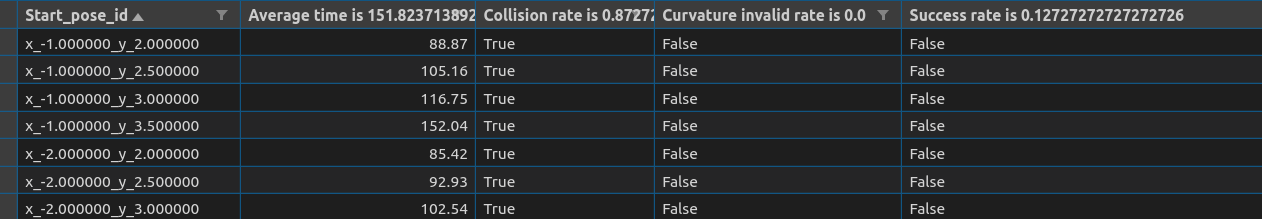
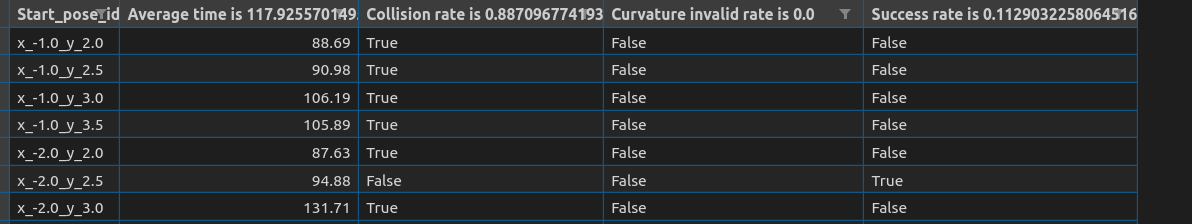
Planning: fix msg dropped bug

Changed region(s): [[0.0, 0.0, 1.0, 1.0]]

diff --git a/src/teb_local_planner/scripts/publish_global_plan.py b/src/teb_local_planner/scripts/publish_global_plan.py
@@ -10,6 +10,7 @@ from geometry_msgs.msg import Pose
 
 DATA_PATH = '/home/jinyun/dev/teb_melodic_workspace/src/global_planner/data/hybrid_star_results/'
 
+
 def list_files_with_suffix(dir_path, suffix):
     """List all sub-files with suffix in given dir_path."""
     return [os.path.join(root, f) for root, _, files
@@ -18,7 +19,6 @@ def list_files_with_suffix(dir_path, suffix):
 
 def read_global_plan_from_files(folder):
     files = list_files_with_suffix(folder, '.txt')
-    print("There are {} global plans to be tested".format(int(len(files)/6)))
     x_files = list(filter(lambda path: 'x.txt' in path, files))
     y_files = list(filter(lambda path: 'y.txt' in path, files))
     heading_files = list(filter(lambda path: 'phi.txt' in path, files))
@@ -27,29 +27,33 @@ def read_global_plan_from_files(folder):
     for x in range(-8, 8):
         for y in [2, 2.5, 3, 3.5]:
             x_file = list(filter(lambda path: "start_x_{:.1f}".format(
-                x) in path and "start_y_{:1f}".format(y), x_files))[0]
+                x) in path and "start_y_{:.1f}".format(y) in path, x_files))[0]
             y_file = list(filter(lambda path: "start_x_{:.1f}".format(
-                x) in path and "start_y_{:1f}".format(y), y_files))[0]
+                x) in path and "start_y_{:.1f}".format(y) in path, y_files))[0]
             heading_file = list(filter(lambda path: "start_x_{:.1f}".format(
-                x) in path and "start_y_{:1f}".format(y), heading_files))[0]
-            
-            global_plan["x_{:1f}_y_{:1f}".format(x, y)] = {'x': [], 'y': [], 'heading':[]}
+                x) in path and "start_y_{:.1f}".format(y) in path, heading_files))[0]
+
+            global_plan["x_{:.1f}_y_{:.1f}".format(x, y)] = {
+                'x': [], 'y': [], 'heading': []}
 
             with open(x_file, 'r') as read_file:
                 lines = list(csv.reader(read_file))
                 for row in lines:
-                    global_plan["x_{:1f}_y_{:1f}".format(x, y)]['x'].append(float(row[0]))
+                    global_plan["x_{:.1f}_y_{:.1f}".format(
+                        x, y)]['x'].append(float(row[0]))
 
             with open(y_file, 'r') as read_file:
                 lines = list(csv.reader(read_file))
                 for row in lines:
-                    global_plan["x_{:1f}_y_{:1f}".format(x, y)]['y'].append(float(row[0]))
+                    global_plan["x_{:.1f}_y_{:.1f}".format(
+                        x, y)]['y'].append(float(row[0]))
 
             with open(heading_file, 'r') as read_file:
                 lines = list(csv.reader(read_file))
                 for row in lines:
-                    global_plan["x_{:1f}_y_{:1f}".format(x, y)]['heading'].append(float(row[0]))
-    print(len(global_plan))
+                    global_plan["x_{:.1f}_y_{:.1f}".format(
+                        x, y)]['heading'].append(float(row[0]))
+    print("There are {} global plans to be tested".format(len(global_plan)))
     return global_plan
 
 
@@ -60,25 +64,28 @@ def publish_global_plan_msg(global_plan):
 
     global_plan_idx = 0
 
-    r = rospy.Rate(0.2)  # 10hz
+    r = rospy.Rate(0.5)  # 0.2hz
 
-    time.sleep(1)
+    while pub.get_num_connections() == 0:
+        print('waiting for subscriber')
+        time.sleep(1)
+
+    print("{} subscriber is ready".format(pub.get_num_connections()))
 
     while not rospy.is_shutdown():
-        if pub.get_num_connections() == 0:
-            continue
-
-        if global_plan_idx == len(global_plan):
+        if global_plan_idx >= len(global_plan):
             print('all global plan published')
-            break
+            # It's a hack here to republish the last global plan msg, as sometimes, the last plan feedback is 
+            # somehow dropped
+            global_plan_idx = len(global_plan) - 1
 
         test_global_plan = PoseSeqMsg()
         test_global_plan.header.stamp = rospy.Time.now()
         test_global_plan.header.frame_id = "odom/map"  # CHANGE HERE: odom/map
-        
+
         key_to_publish = list(global_plan.keys())[global_plan_idx]
         plan = global_plan[key_to_publish]
-        
+
         for i in range(len(plan['x'])):
             test_global_plan.pose_seq.append(Pose())
             test_global_plan.pose_seq[-1].position.x = plan['x'][i]
@@ -90,14 +97,14 @@ def publish_global_plan_msg(global_plan):
 
         pub.publish(test_global_plan)
 
-        global_plan_idx +=1
+        global_plan_idx += 1
 
         print(key_to_publish + " is published")
 
         r.sleep()
 
 
-if __name__ == '__main__':    
+if __name__ == '__main__':
     global_plan = read_global_plan_from_files(DATA_PATH)
 
     try:

diff --git a/src/teb_local_planner/src/test_optim_node.cpp b/src/teb_local_planner/src/test_optim_node.cpp
@@ -100,7 +100,7 @@ int main(int argc, char **argv)
   custom_obst_sub = n.subscribe("obstacles", 1, CB_customObstacle);
 
   // setup callback for global plan
-  global_plan_sub = n.subscribe("test_global_plan", 0, CB_global_plan, ros::TransportHints().tcpNoDelay(true));
+  global_plan_sub = n.subscribe("test_global_plan", 1, CB_global_plan, ros::TransportHints().reliable ().tcpNoDelay(true));
 
   // Setup visualization
   visual = TebVisualizationPtr(new TebVisualization(n, config));
@@ -196,7 +196,9 @@ Point2dContainer build_robot_model()
 void CB_global_plan(const PoseSeqMsg::ConstPtr &global_plan_msg)
 {
   int size = global_plan_msg->pose_seq.size();
+  ROS_INFO(("Received start_pose_id_: " + global_plan_msg->start_pose).c_str());
   if (size == 0) {
+    ROS_INFO(("Received start_pose_id_: " + global_plan_msg->start_pose + " has global plan empty").c_str());
     return;
   }
   start_x = global_plan_msg->pose_seq.at(0).position.x;
@@ -226,7 +228,7 @@ void CB_global_plan(const PoseSeqMsg::ConstPtr &global_plan_msg)
   visual->publishObstacles(obst_vector);
   visual->publishViaPoints(via_points);
 
-  ROS_INFO(("start_pose_id_: " + start_pose_id_).c_str());
+  ROS_INFO(("Finished plan at start_pose_id_: " + start_pose_id_).c_str());
   ROS_INFO(("TEB total used time: " + std::to_string(teb_total_time) + " ms.").c_str());
   ROS_INFO(("global_plan_count: " + std::to_string(global_plan_count_++)).c_str());
 }

diff --git a/src/teb_local_planner/scripts/subscribe_feedback.py b/src/teb_local_planner/scripts/subscribe_feedback.py
@@ -151,7 +151,7 @@ def feedback_subscriber():
 
     upper_boundaries, lower_boundaries = create_parking_boundaries()
 
-    r = rospy.Rate(2)  # define rate here
+    r = rospy.Rate(10)  # define rate here
     last_start_pose_id = None
     while not rospy.is_shutdown():
 
@@ -162,6 +162,8 @@ def feedback_subscriber():
             continue
         last_start_pose_id = cur_start_pose_id
 
+        print(cur_start_pose_id + " is received")
+        
         t = []
         v = []
         omega = []

diff --git a/README.md b/README.md
@@ -18,9 +18,6 @@
 6. when you see "all global plan published" shown in your terminal. Ctrl-C to stop the terminal. And statistics will be automaticaly dumped at RESULTS_TABLE_CSV. Read it in csv reader is recommended.
 7. If you want to change or update the data in DATA_PATH, please update line 27-28 in scripts/publish_global_plan.py accordingly
 
-**Note:**
-**Current issue is that the subcriber would accidently drop a few msgs, so only 55/64 testings are done. WILL BE FIXED**
-
 Below results is by the config in cfg/carlike_teb_local_planner_params.yaml
 
 ![](results/0_0_4_setup.png)
@@ -35,7 +32,8 @@ Below results is by the config in cfg/carlike_teb_local_planner_params.yaml
 6. ~~[Done]Muliple starting position testing,
     a. Awaiting integration of global planner (make map, dive deep into code to integrate tf, map_server, costmap2d and global planner)
     b. Or switching back to ros-stage simulator(resetup the configuration, get rid of noise of perception and localization error, write a script to send start and goal pose, write a script to capture the very first frame of planning trajectory(as ros-stage will drive the car to goal, thus changing the "start" position setups))~~
-7. Fix global planning subsriber missing messages
+7. ~~[Done]Fix global planning subsriber missing messages~~
+8. Conducting tests on different dt[0.1, 0.2, 0.3, 0.4, 0.5] with fined tuned parameters
 
 **Archived Test Setup:**
 1. With ros-state simulation env run "roslaunch teb_local_planner_testing robot_carlike_in_stage.launch", and here we go (Clearly, Teb is doing crazy here because the inaccurate and jumpping localization and perception)
